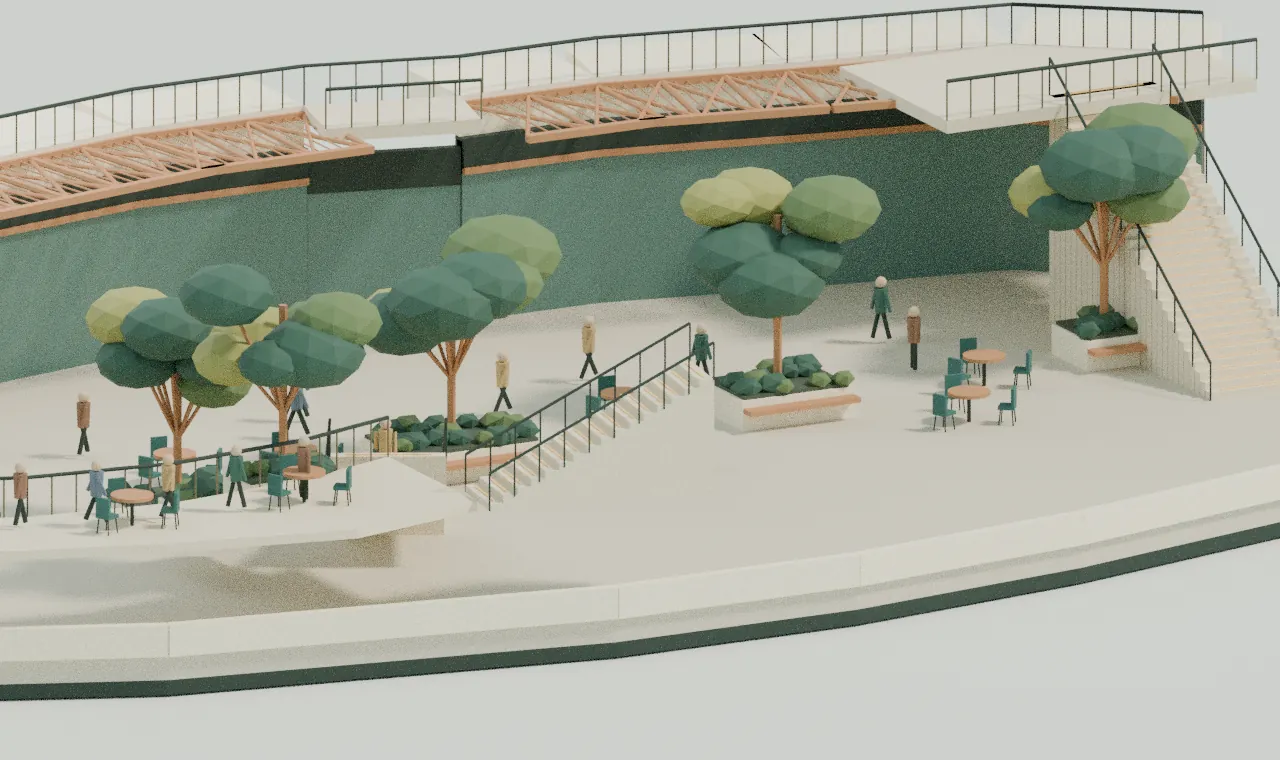
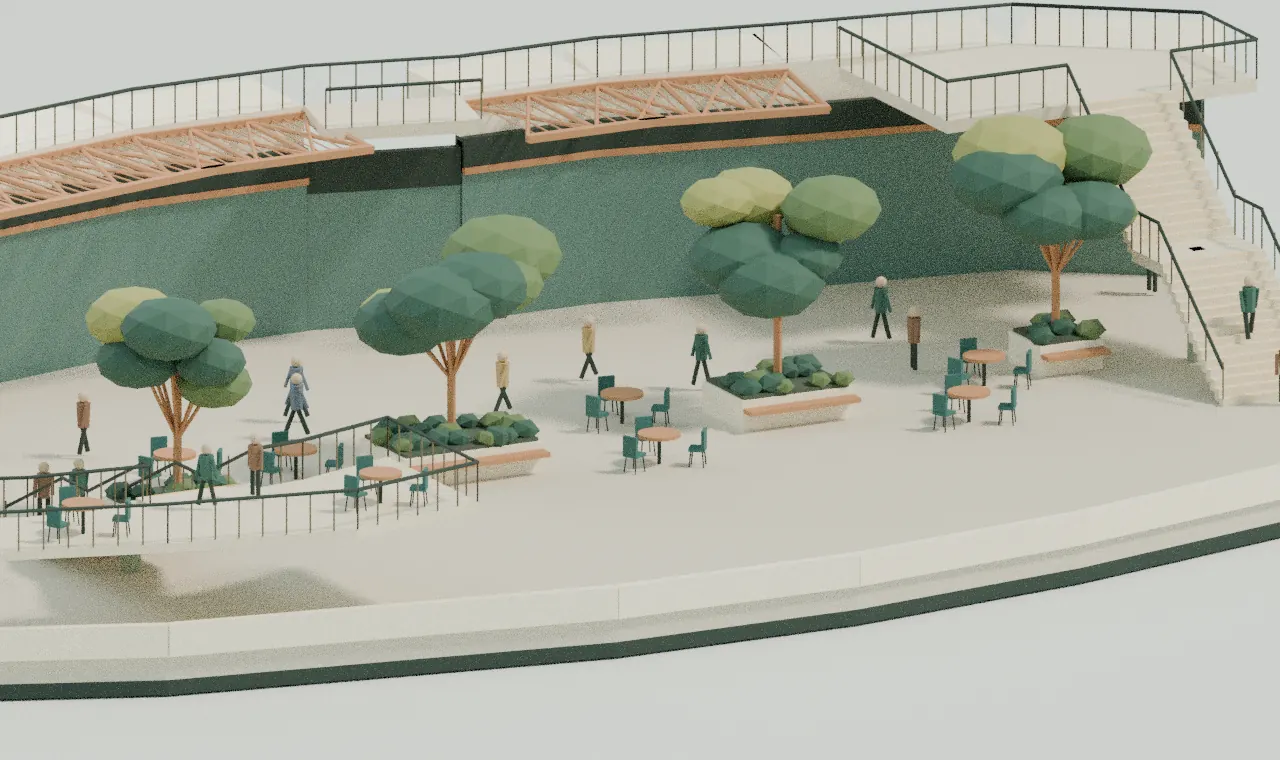
Fix stair connections and document reuse with an attributed quickstart

diff --git a/docs/walkthrough.js b/docs/walkthrough.js
@@ -1,3 +1,4 @@
+// Spatial Digital Showcase · @JayceFan666 · https://github.com/JayceFan666/spatial-digital-showcase
 const $=id=>document.getElementById(id);let contextMode=false,season='summer',flowing=true,walkers=[],flowTime=0,lastFrame=0,contextGroup,seasonGroup;let night=false,selected=-1;
 const nodes=[
 {name:'木色格栅顶棚',sub:'几何格构 · 光影层次',lead:'以木色几何格构延续庭院上方的空间界面。',text:'三角格栅与透光开口交织出丰富光影，为步行与停留提供舒适的空间。可关闭“顶棚”查看下层布局。',p:[-10,5.8,-5]},
@@ -23,8 +24,8 @@ nodes.push(
 {name:'周边铺位门面',sub:'庭院两侧 · 连续商业',lead:'沿庭院两侧展开的门面，将周边商业与广场相连。',text:'两侧门面围合庭院，形成连续的步行与消费界面。',p:[3,3,12]},
 {name:'连廊入口',sub:'一楼连廊 · 负一层小餐',lead:'上层连廊串联庭院，连廊入口连接负一层餐饮空间。',text:'上层步行连廊串联庭院，入口连接下层公共空间。',p:[0,5,-4]}
 );
-nodes[1].text='层层台阶与休息平台连接下层庭院和中层退台，沿途展开的花池提供绿荫与停留空间。';
-nodes.push({name:'退台打卡点',sub:'中层停留 · 俯瞰庭院',lead:'沿弧形退台漫步，在上下层之间停留，看见庭院的另一面。',text:'退台通过两端楼梯与上层连接，宽阔的平台可供观景、休憩和外摆，下方延续商业门面。',p:[20,4.6,4]});
+nodes[1].text='中庭楼梯连通庭院与中层退台，中途可在平坦的休息平台停留。西侧另有一座楼梯通向上层观景平台。';
+nodes.push({name:'退台打卡点',sub:'中层停留 · 俯瞰庭院',lead:'沿弧形退台漫步，在上下层之间停留，看见庭院的另一面。',text:'退台通过中庭楼梯与庭院连接，转入平整平台即可观景、休憩或外摆，下方延续商业门面。',p:[20,4.6,4]});
 nodes.forEach((n,i)=>{const b=document.createElement('button');b.className='node';b.dataset.node=i;b.innerHTML=`<span class="num">0${i+1}</span><span><strong>${["格栅顶棚","楼梯与平台","庭院绿化","商业界面","庭院外摆","上层平台","周边铺位","连廊入口","退台打卡点"][i]}</strong><small>${n.sub}</small></span>`;b.onclick=()=>choose(i);$('nodes').append(b);const pin=document.createElement('button');pin.className='hotspot';pin.dataset.node=i;pin.innerHTML=`<b>0${i+1}</b>${n.name}`;pin.onclick=()=>choose(i);$('pins').append(pin);n.el=pin;});
 $('sources').onclick = () => $('sourceDialog').showModal();
 let atmosphereTween=null,foliageTween=null;
@@ -44,7 +45,11 @@ const inner = [[-25, -7], [-21, -10], [-15, -11], [-10, -12],
   [-6, -12], [-2, -13], [3, -13], [8, -12], [13, -11], [18, -9],
   [23, -7], [27, -4], [29, 1]];
 const floor = [...outer, ...inner.slice(0, -1).reverse()];
-const terraceEdge = [[7, 9], [10, 10], [14, 10.5], [18, 10], [22, 8.5], [25, 6.5]];
+// The terrace edge steps forward just enough to form a square stair throat.
+const terraceLeft = [[7, 9], [10, 10], [11.35,10.169], [11.35,10]];
+const terraceMouth = [[11.35,10],[14.65,10]];
+const terraceRight = [[14.65,10], [14.65,10.419], [18,10], [22,8.5], [25,6.5]];
+const terraceEdge = [...terraceLeft, ...terraceRight];
 const terraceBack = [[7, 14], [11, 15], [16, 14], [21, 12.5], [24, 10], [26, 7]];
 const upperLevel = 6;
 const terraceLevel = 3;
@@ -56,7 +61,45 @@ function tree(x,z,y=0,r=1.6){const g=new T.Group();greenGroup.add(g);g.position.
 function planter(x,z,w,d,y=0,treeHere=false){box(x,y+.4,z,w,.8,d,M.cream);box(x,y+.83,z,w-.16,.12,d-.16,M.soil,greenGroup);for(let i=0;i<Math.ceil(w*d*2);i++){const xx=x+(rand()-.5)*(w-.25),zz=z+(rand()-.5)*(d-.25);const o=mesh(new T.IcosahedronGeometry(.3+rand()*.2,0),i%3?M.leaf:M.leaf2,[xx,y+1,zz],greenGroup);o.scale.y=.7}if(treeHere)tree(x,z,y+.8,1.6);box(x,y+.55,z+d/2+.23,w,.12,.45,M.wood)}
 function table(x,z){mesh(new T.CylinderGeometry(.56,.56,.09,20),M.wood,[x,.79,z]);rod([x,0,z],[x,.75,z],.05,M.dark);for(let j=0;j<3;j++){let a=j*Math.PI*2/3+.4,xx=x+Math.cos(a)*1,zz=z+Math.sin(a)*1;const g=new T.Group();g.position.set(xx,0,zz);g.rotation.y=-a;scene.add(g);box(0,.46,0,.42,.09,.44,M.chair,g);box(.17,.74,0,.08,.46,.44,M.chair,g);for(const k of [-1,1])for(const l of [-1,1])rod([k*.15,.43,l*.15],[k*.19,0,l*.19],.018,M.dark,g)}}
 function oldPerson(x,z,color='#d8c6ab'){const m=mat(color);mesh(new T.SphereGeometry(.14,10,8),M.cream,[x,1.6,z]);mesh(new T.CylinderGeometry(.16,.19,.65,8),m,[x,1.1,z]);for(const a of [-.1,.1])rod([x+a,.8,z],[x+a,.07,z+.03],.055,M.dark);}
-function steps(a,b,width,rise=upperLevel,count=36){const dx=b[0]-a[0],dz=b[1]-a[1],len=Math.hypot(dx,dz),angle=-Math.atan2(dz,dx);for(let i=0;i<count;i++){let f=(i+.5)/count,h=(i+1)/count*rise;const o=box(a[0]+dx*f,h/2,a[1]+dz*f,len/count+.015,h,width,M.stone);o.rotation.y=angle;const ll=box(a[0]+dx*f,h+.015,a[1]+dz*f,.06,.025,width*.75,M.light);ll.rotation.y=angle}const nx=-dz/len*width/2,nz=dx/len*width/2;for(let s of [-1,1]){rod([a[0]+nx*s,1,a[1]+nz*s],[b[0]+nx*s,rise+1,b[1]+nz*s],.04,M.dark);for(let j=0;j<=9;j++){let f=j/9;rod([a[0]+dx*f+nx*s,rise*f,a[1]+dz*f+nz*s],[a[0]+dx*f+nx*s,rise*f+1,a[1]+dz*f+nz*s],.024,M.dark)}}}
+// Build from walkable entrance (z0) to walkable arrival (z1) with a real flat mid-landing.
+function stairLink({x,z0,z1,start,finish,width,landingLength,treads}){
+  const dir=Math.sign(z1-z0),run=Math.abs(z1-z0),rise=finish-start;
+  const flightRun=(run-landingLength)/2, tread=flightRun/treads, riser=rise/(2*treads);
+  const walk=[],left=x-width/2,right=x+width/2;
+  const stair=new T.Group();stair.name='stair-link';scene.add(stair);
+  const deck=(begin,end,height,name)=>{
+    const obj=box(x,height-.16,z0+dir*(begin+end)/2,width,.32,end-begin,M.stone,stair);
+    obj.name=name;return obj;
+  };
+  walk.push([x,start,z0]);
+  for(let f=0;f<2;f++){
+    const begin=f===0?0:flightRun+landingLength, floorY=start+f*rise/2;
+    for(let i=0;i<treads;i++){
+      const edge=begin+i*tread,y=floorY+(i+1)*riser;
+      deck(edge,edge+tread,y,'tread');
+      box(x,y+.006,z0+dir*(edge+.043),width*.83,.011,.045,M.light,stair);
+      // The feet traverse the actual tread heights rather than lerping along a ramp.
+      walk.push([x,y,z0+dir*(edge+.015)],[x,y,z0+dir*(edge+tread-.015)]);
+    }
+    for(const xx of [left,right]){
+      const beamX=xx+(x-xx)*.20;
+      rod([beamX,floorY-.20,z0+dir*begin],[beamX,floorY+rise/2-.20,z0+dir*(begin+flightRun)],.11,M.edge,stair);
+      rod([xx,floorY+1.02,z0+dir*begin],[xx,floorY+rise/2+1.02,z0+dir*(begin+flightRun)],.048,M.dark,stair);
+      for(let i=0;i<=treads;i+=4){let d=begin+i*tread,y=floorY+Math.min(treads,i+1)*riser;rod([xx,y,z0+dir*d],[xx,y+1,z0+dir*d],.022,M.bronze,stair);}
+    }
+    if(f===0){
+      const middle=start+rise/2,end=flightRun+landingLength;
+      deck(flightRun,end,middle,'mid-landing');
+      walk.push([x,middle,z0+dir*flightRun],[x,middle,z0+dir*end]);
+      rail([[left,z0+dir*flightRun],[left,z0+dir*end]],middle,stair);
+      rail([[right,z0+dir*flightRun],[right,z0+dir*end]],middle,stair);
+      const landing=box(x,middle/2,z0+dir*(flightRun+landingLength/2),.37,middle,.37,M.edge,stair);
+      landing.name='landing-support';
+    }
+  }
+  walk.push([x,finish,z1]);
+  return walk;
+}
 function init(){scene=new T.Scene();scene.background=null;renderer=new T.WebGLRenderer({antialias:true,alpha:true,preserveDrawingBuffer:true});renderer.setPixelRatio(Math.min(devicePixelRatio,1.7));renderer.shadowMap.enabled=true;renderer.shadowMap.type=T.PCFSoftShadowMap;renderer.outputColorSpace=T.SRGBColorSpace;renderer.toneMapping=T.ACESFilmicToneMapping;renderer.toneMappingExposure=1.49;$('scene').append(renderer.domElement);renderer.domElement.tabIndex=0;renderer.domElement.setAttribute('aria-label','下沉广场立体模型。拖动旋转，滚轮缩放；也可使用预设视角按钮。');camera=new T.PerspectiveCamera(38,1,.1,350);controls=new OrbitControls(camera,renderer.domElement);controls.enableDamping=true;controls.dampingFactor=.08;controls.maxPolarAngle=Math.PI/2-.03;controls.minDistance=15;controls.maxDistance=220;controls.target.set(0,1,0);controls.addEventListener('start',()=>{targetTween=null;if(typeof endTour==='function'&&document.body.classList.contains('touring'))endTour(false)});
 ambient=new T.HemisphereLight('#fcfff8','#bfc6ab',2.95);scene.add(ambient);sun=new T.DirectionalLight('#fff6e2',3.5);sun.position.set(-18,45,20);sun.castShadow=true;sun.shadow.mapSize.set(2048,2048);Object.assign(sun.shadow.camera,{left:-48,right:48,top:38,bottom:-38,near:1,far:120});sun.shadow.normalBias=.05;scene.add(sun);fill=new T.DirectionalLight('#e8f3ff',1.25);fill.position.set(30,20,-20);scene.add(fill);
 roofGroup=new T.Group();greenGroup=new T.Group();scene.add(roofGroup,greenGroup);
@@ -67,44 +110,34 @@ for(let i=0;i<inner.length-1;i++){if(i===4)continue;const a=inner[i],b=inner[i+1
 const dx=b[0]-a[0],dz=b[1]-a[1],nx=dz/l*3,nz=-dx/l*3;const back=[[...a],[...b],[b[0]+nx,b[1]+nz],[a[0]+nx,a[1]+nz]];slab(back,4.9,1.1,M.cream);rail([a,b],upperLevel);for(let j=0;j<Math.floor(l/3);j++){let t=(j+.5)/Math.floor(l/3),x=a[0]+dx*t,z=a[1]+dz*t;const o=box(x+nx*.25,1.7,z+nz*.25,1.1,2,.12,M.light);o.rotation.y=-Math.atan2(dz,dx)}}
 // Low cutaway outer edge reveals the sunken commercial level.
 for(let i=0;i<outer.length-1;i++){wallBetween(outer[i],outer[i+1],.85,.3,M.cream);}
-// One stair links to the upper level, the other passes through the terrace.
-steps([-21, 4], [-21, -5], 3, upperLevel, 30);
-const s2 = [4, 3], s0 = [7, 9];
-const stairRoute = [];
-const interp = t => [s2[0] + (s0[0] - s2[0]) * t, s2[1] + (s0[1] - s2[1]) * t];
-for (let i = 0; i <= 2; i++) {
-  const [x, z] = interp(i / 2);
-  stairRoute.push([x, i * terraceLevel / 2, z]);
-  if (i === 2) break;
-  const group = new T.Group();
-  scene.add(group);
-  const previousScene = scene;
-  scene = group;
-  steps([x,z], interp((i + 1) / 2), 3, terraceLevel / 2, 9);
-  scene = previousScene;
-  group.position.y = i * terraceLevel / 2;
-}
+// West stair reaches the real upper viewing platform; the central stair serves only the terrace.
+const westStair=stairLink({x:-21,z0:4.7,z1:-4,start:0,finish:upperLevel,width:3,landingLength:1.5,treads:15});
+const terraceStair=stairLink({x:13,z0:2.35,z1:10,start:0,finish:terraceLevel,width:3.3,landingLength:1.45,treads:8});
+const stairRoute=[[13,0,1.3],...terraceStair,[13,terraceLevel,11.65]];
+const westRoute=[[-21,0,5.3],...westStair,[-21,upperLevel,-5.7]];
 buildTerrace();
-const upperPlatform = [[-25, -7], [-21, -10], [-16, -10], [-16, -4], [-25, -4]];
-slab(upperPlatform, upperLevel - .35, .35, M.stone);
-rail([upperPlatform[3], upperPlatform[4]], upperLevel);
+const upperPlatform=[[-25,-7],[-21,-10],[-16,-10],[-16,-4],[-25,-4]];
+slab(upperPlatform,upperLevel-.35,.35,M.stone);
+// Leave clear gaps exactly the width of the opposing stairs.
+rail([[-25,-7],[-25,-4],[-22.5,-4]],upperLevel);
+rail([[-19.5,-4],[-16,-4],[-16,-10]],upperLevel);
 
 // Top trellis bands follow commercial fronts; the courtyard centre stays open.
-for(let i=0;i<inner.length-1;i++){if(i===4||i>10)continue;const a=inner[i],b=inner[i+1],dx=b[0]-a[0],dz=b[1]-a[1],l=Math.hypot(dx,dz);if(l<1)continue;const nx=-dz/l*3.8,nz=dx/l*3.8;wallBetween(a,b,.2,.24,M.wood,5.65,roofGroup);wallBetween([a[0]+nx,a[1]+nz],[b[0]+nx,b[1]+nz],.2,.24,M.wood,5.65,roofGroup);const count=Math.ceil(l/2.3);for(let j=0;j<count;j++){const t=j/count,u=(j+1)/count,A=[a[0]+dx*t,5.75,a[1]+dz*t],B=[a[0]+dx*u,5.75,a[1]+dz*u],C=[A[0]+nx,5.75,A[2]+nz],D=[B[0]+nx,5.75,B[2]+nz];rod(A,C,.09,M.wood,roofGroup);rod(A,D,.06,M.wood,roofGroup);rod(B,C,.06,M.wood,roofGroup);for(let q=1;q<5;q++){let f=q/5;rod([A[0]+dx/count*f,5.75,A[2]+dz/count*f],[C[0]+dx/count*f,5.75,C[2]+dz/count*f],.025,M.wood,roofGroup)}}}
-planter(-9,0,3.2,2.3,0,true);planter(1,1,4,2.5,0,true);planter(10,3,3.2,2.3,0,true);planter(-19,-1,2,2,0,true);planter(11,7,2.5,1.5,1.1,false);planter(10,8.9,2.7,1.5,2.1,true);
+for(let i=0;i<inner.length-1;i++){if(i<2||i===4||i>10)continue;const a=inner[i],b=inner[i+1],dx=b[0]-a[0],dz=b[1]-a[1],l=Math.hypot(dx,dz);if(l<1)continue;const nx=-dz/l*3.8,nz=dx/l*3.8;wallBetween(a,b,.2,.24,M.wood,5.65,roofGroup);wallBetween([a[0]+nx,a[1]+nz],[b[0]+nx,b[1]+nz],.2,.24,M.wood,5.65,roofGroup);const count=Math.ceil(l/2.3);for(let j=0;j<count;j++){const t=j/count,u=(j+1)/count,A=[a[0]+dx*t,5.75,a[1]+dz*t],B=[a[0]+dx*u,5.75,a[1]+dz*u],C=[A[0]+nx,5.75,A[2]+nz],D=[B[0]+nx,5.75,B[2]+nz];rod(A,C,.09,M.wood,roofGroup);rod(A,D,.06,M.wood,roofGroup);rod(B,C,.06,M.wood,roofGroup);for(let q=1;q<5;q++){let f=q/5;rod([A[0]+dx/count*f,5.75,A[2]+dz/count*f],[C[0]+dx/count*f,5.75,C[2]+dz/count*f],.025,M.wood,roofGroup)}}}
+planter(-9,0,3.2,2.3,0,true);planter(1,1,4,2.5,0,true);planter(10,3,3.2,2.3,0,true);planter(-17.6,-1,1.8,1.8,0,true);
 for(const [x,z] of [[-15,0],[-13,3],[-5,-1],[-4,3],[5,0],[8,-1],[16,2]])table(x,z);
-buildWalkers(stairRoute);
+buildWalkers(stairRoute,westRoute);
 for(const [x,z] of [[-12,1],[1,1],[10,3]]){let l=new T.PointLight('#ffd397',0,11,2);l.position.set(x,2.4,z);scene.add(l);lamps.push(l)}
 label('庭院商街', [10, 4.5, -10], 6);
 nodes[0].p = [-12, 6, -9];
-nodes[1].p = [5.5, 2, 6];
+nodes[1].p = [13, 2.5, 6.9];
 nodes[2].p = [1, 2.5, 1];
 nodes[3].p = [10, 3, -10];
 nodes[4].p = [-13, 1, 3];
-nodes[5].p = [-21, 6.8, -5];
+nodes[5].p = [-21, 7, -5.7];
 buildContext();setSeason('summer');liveResizeObserver=new ResizeObserver(resize);liveResizeObserver.observe($('scene'));resize();view('overview',false);animate();}
 function resize(){if(!renderer)return;const r=$('scene').getBoundingClientRect();renderer.setSize(r.width,r.height);camera.aspect=r.width/r.height;camera.updateProjectionMatrix()}
-function view(key,smooth=true){if(!camera)return;const fit=Math.max(1,1.54/camera.aspect);const map={overview:{p:[(contextMode?38:30)*fit,(contextMode?50:38)*fit,(contextMode?68:51)*fit],t:[0,2.6,0]},front:{p:[3,14*fit,47*fit],t:[-2,2,0]},shops:{p:[21*fit,10*fit,28*fit],t:[8,2,-6]},terrace:{p:[32*fit,23*fit,-28*fit],t:[19,3.6,0]},top:{p:[0,90*fit,.3],t:[0,0,0]}};const v=map[key];document.querySelectorAll('[data-view]').forEach(b=>b.classList.toggle('active',b.dataset.view===key));if(smooth)targetTween={start:performance.now(),a:camera.position.clone(),b:new T.Vector3(...v.p),ta:controls.target.clone(),tb:new T.Vector3(...v.t)};else{camera.position.set(...v.p);controls.target.set(...v.t);controls.update()}}
+function view(key,smooth=true){if(!camera)return;const fit=Math.max(1,1.54/camera.aspect);const map={overview:{p:[(contextMode?38:30)*fit,(contextMode?50:38)*fit,(contextMode?68:51)*fit],t:[0,2.6,0]},front:{p:[3,14*fit,47*fit],t:[-2,2,0]},stairs:{p:[12+17*fit,2.1+14*fit,6+22*fit],t:[12,2.1,6]},shops:{p:[21*fit,10*fit,28*fit],t:[8,2,-6]},terrace:{p:[32*fit,23*fit,-28*fit],t:[19,3.6,0]},top:{p:[0,90*fit,.3],t:[0,0,0]}};const v=map[key];document.querySelectorAll('[data-view]').forEach(b=>b.classList.toggle('active',b.dataset.view===key));if(smooth)targetTween={start:performance.now(),a:camera.position.clone(),b:new T.Vector3(...v.p),ta:controls.target.clone(),tb:new T.Vector3(...v.t)};else{camera.position.set(...v.p);controls.target.set(...v.t);controls.update()}}
 let frameRequest=null;
 function animate(now=0){if(!isLive)return;frameRequest=requestAnimationFrame(animate);const dt=Math.min(.05,Math.max(0,(now-lastFrame)/1000));lastFrame=now;if(flowing)flowTime+=dt;updateWalkers();if(targetTween){let t=Math.min((performance.now()-targetTween.start)/(targetTween.duration||1400),1);t=t*t*(3-2*t);camera.position.lerpVectors(targetTween.a,targetTween.b,t);controls.target.lerpVectors(targetTween.ta,targetTween.tb,t);if(t>=1)targetTween=null}updateAtmosphere();controls.update();renderer.render(scene,camera);const r=$('scene').getBoundingClientRect();nodes.forEach(n=>{const v=new T.Vector3(...n.p).project(camera);n.el.style.left=(v.x*.5+.5)*r.width+'px';n.el.style.top=(-v.y*.5+.5)*r.height+'px';n.el.style.display=$('hotspots').checked&&v.z<1&&Math.abs(v.x)<.95&&Math.abs(v.y)<.9?'block':'none'})}
 function lighting(value){night=value;document.body.classList.toggle('night',night);$('day').classList.toggle('active',!night);$('night').classList.toggle('active',night);if(ambient){ambient.intensity=night?.86:2.95;sun.intensity=night?.33:3.5;fill.intensity=night?.55:1.25;M.glass.color.set(night?'#b9a985':'#c1d1c0');M.glass.emissive.set(night?'#8a6f36':'#000000');M.glass.emissiveIntensity=night?.35:0;M.light.emissiveIntensity=night?2:.15;lamps.forEach(l=>l.intensity=night?25:0);renderer.toneMappingExposure=night?1.26:1.49;sun.color.set(season==='autumn'?'#ffe0ad':season==='winter'?'#e3eeff':'#fff6e2')}}
@@ -136,8 +169,10 @@ slab([a,b,[b[0]+nx,b[1]+nz],[a[0]+nx,a[1]+nz]],-.3,.3,M.stone,contextGroup);
 storefront(a,b,name,contextGroup);wallBetween([a[0]+nx,a[1]+nz],[b[0]+nx,b[1]+nz],3.7,.18,M.cream,0,contextGroup);
 });
 const te=terraceEdge;
-for(let i=0;i<te.length-1;i++){const a=te[i],b=te[i+1];wallBetween(a,b,2.9,.16,M.glass,0,contextGroup);wallBetween(a,b,.4,.22,M.dark,2.9,contextGroup);box(a[0],1.45,a[1],.055,2.9,.055,M.bronze,contextGroup);}
-sign('退台下方',te[4],te[2],3.08,contextGroup);
+for(const span of [terraceLeft,terraceRight])for(let i=0;i<span.length-1;i++){
+ const a=span[i],b=span[i+1];wallBetween(a,b,2.9,.16,M.glass,0,contextGroup);wallBetween(a,b,.36,.22,M.dark,2.65,contextGroup);
+}
+sign('退台下方',[18,10],[22,8.5],2.9,contextGroup);
 storefront(inner[0],inner[1],'西侧入口');
 const a=inner[4],b=inner[5];storefront(a,b,'连廊入口');
 const dx=b[0]-a[0],dz=b[1]-a[1],l=Math.hypot(dx,dz),n=[-dz/l*2.4,dx/l*2.4];
@@ -145,7 +180,7 @@ slab([a,b,[b[0]+n[0],b[1]+n[1]],[a[0]+n[0],a[1]+n[1]]],upperLevel - .35,.35,M.st
 nodes[7].p=[(a[0]+b[0])/2,5,(a[1]+b[1])/2];
 sign('咖啡',inner[2],inner[4],4.5);
 sign('餐饮',inner[8],inner[10],4.5,scene);
-sign('茶饮',te[3],te.at(-1),3.08,contextGroup);
+sign('茶饮',[22,8.5],te.at(-1),2.9,contextGroup);
 nodes[6].p=[(outer[9][0]+outer[11][0])/2,3,(outer[9][1]+outer[11][1])/2];
 for(let i=0;i<36;i++){const o=mesh(new T.IcosahedronGeometry(.14,0),mat('#efbdd0'),[-9+(rand()-.5)*2,1.12,(rand()-.5)*1.8],seasonGroup);o.userData.flower=true;}
 }
@@ -156,41 +191,31 @@ mesh(new T.SphereGeometry(.15,10,8),skin,[0,1.62,0],group);mesh(new T.CylinderGe
 const limbs=[];for(let i=0;i<4;i++){const pivot=new T.Group();pivot.position.set(i<2?(i? .12:-.12):(i===2?-.25:.25),i<2?.83:1.4,0);group.add(pivot);rod([0,0,0],[0,i<2?-.72:-.55,0],i<2?.065:.05,i<2?M.dark:cloth,pivot);limbs.push(pivot)}
 return {group,limbs};
 }
-function buildWalkers(stairRoute){
+function buildWalkers(stairRoute,westRoute){
 const routes=[
 [[-23,0,-6],[-18,0,-5],[-12,0,-5],[-3,0,-5],[6,0,-5],[13,0,-6],[21,0,-9]],
 [[-14,0,-2],[-10,0,-3],[-6,0,-3],[0,0,-3],[7,0,-4],[16,0,-6]],
-stairRoute,terraceWalkRoute];
-routes.forEach((route,r)=>{for(let i=0;i<(r===2?3:5);i++){const w=person(['#8b6650','#396359','#c2a36f','#66778a'][i%4]);w.route=route.map(p=>new T.Vector3(...p));w.lengths=[0];for(let j=1;j<route.length;j++)w.lengths.push(w.lengths[j-1]+w.route[j].distanceTo(w.route[j-1]));w.total=w.lengths.at(-1);w.offset=i*.19;w.speed=r===2?.55:.75;walkers.push(w)}});
+stairRoute,westRoute,terraceWalkRoute];
+routes.forEach((route,r)=>{for(let i=0;i<(r>=2?2:5);i++){const w=person(['#8b6650','#396359','#c2a36f','#66778a'][i%4]);w.route=route.map(p=>new T.Vector3(...p));w.lengths=[0];for(let j=1;j<route.length;j++)w.lengths.push(w.lengths[j-1]+w.route[j].distanceTo(w.route[j-1]));w.total=w.lengths.at(-1);w.offset=i*.19;w.speed=r===2||r===3?.52:.75;walkers.push(w)}});
 }
 function updateWalkers(){for(const w of walkers){const cycle=(flowTime*w.speed/w.total+w.offset)%2,back=cycle>1,u=back?2-cycle:cycle,d=u*w.total;let j=1;while(j<w.lengths.length-1&&w.lengths[j]<d)j++;const t=(d-w.lengths[j-1])/(w.lengths[j]-w.lengths[j-1]);w.group.position.lerpVectors(w.route[j-1],w.route[j],t);const delta=w.route[j].clone().sub(w.route[j-1]);w.group.rotation.y=Math.atan2(delta.x,delta.z)+(back?Math.PI:0);const swing=Math.sin(flowTime*7+w.offset*20)*.42;w.limbs.forEach((limb,i)=>limb.rotation.x=swing*(i%2?1:-1));}}
 
 function buildTerrace() {
-  const deck = [...terraceEdge, ...terraceBack.slice().reverse()];
-  slab(deck, terraceLevel - .25, .25, M.stone);
-  rail(terraceEdge, terraceLevel);
-  const [a, b] = [terraceBack[0], terraceBack.at(-1)];
-  for (const [start, end] of [[a, [1, 15]], [b, [28, 3]]]) {
-    const group = new T.Group();
-    scene.add(group);
-    const previousScene = scene;
-    scene = group;
-    steps(start, end, 2, upperLevel - terraceLevel, 16);
-    scene = previousScene;
-    group.position.y = terraceLevel;
-  }
-  const centers = [[11, 12], [16, 12], [21, 10]];
-  for (const [x,z] of centers) {
-    const group = new T.Group();
-    scene.add(group);
-    const previousScene = scene;
-    scene = group;
-    table(x,z);
-    scene = previousScene;
-    group.position.y = terraceLevel;
-  }
-  terraceWalkRoute = centers.map(([x,z]) => [x, terraceLevel, z]);
-  nodes[8].p = [16, terraceLevel + 1, 12];
+  const deck=[...terraceEdge,...terraceBack.slice().reverse()];
+  slab(deck,terraceLevel-.25,.25,M.stone);
+  rail(terraceLeft,terraceLevel);
+  rail(terraceRight,terraceLevel);
+  rail([terraceEdge[0],...terraceBack,terraceEdge.at(-1)],terraceLevel);
+  // Keep the mouth and the length of the platform clear; tables sit off the travel line.
+  const tables=[[9.3,13],[17.5,12.15],[21.2,10.7]];
+  const furniture=new T.Group();scene.add(furniture);
+  const parent=scene;
+  scene=furniture;
+  for(const [x,z] of tables)table(x,z);
+  scene=parent;
+  furniture.position.y=terraceLevel;
+  terraceWalkRoute=[[12,terraceLevel,11.2],[14.4,terraceLevel,11.65],[17.4,terraceLevel,10.55],[20,terraceLevel,9.65]];
+  nodes[8].p=[16,terraceLevel+1,11];
 }
 
 // Presentation controls share the existing model and do not alter source geometry.
@@ -198,7 +223,7 @@ let tourStep=0,tourTimer=null,tourPaused=false,tourWasNight=false;
 const reduceMotion=matchMedia('(prefers-reduced-motion: reduce)').matches;
 const chapters=[
 {title:'向下，<br>走进花园。',copy:'从城市界面，走进一座可以停留的庭院。',eyebrow:'01 / THE GARDEN',view:'overview'},
-{title:'沿阶而下，<br>走近花园。',copy:'楼梯、绿荫与平台，把上下层连接成一段旅程。',eyebrow:'02 / THE JOURNEY',view:'front'},
+{title:'沿阶而下，<br>走近花园。',copy:'拾级而上，在中段平台稍作停留，再走向开敞的退台。',eyebrow:'02 / THE JOURNEY',view:'stairs'},
 {title:'停在半途，<br>看见更多。',copy:'退台连接庭院与城市。停留、交谈，也留下一个镜头。',eyebrow:'03 / THE TERRACE',view:'terrace'},
 {title:'生活，<br>向外延伸。',copy:'商业与外摆沿庭院展开，让相遇发生在日常之间。',eyebrow:'04 / THE EVERYDAY',view:'shops'},
 {title:'灯亮之后，<br>花园未眠。',copy:'让暖光接续日光，留住夜晚的片刻。',eyebrow:'05 / AFTER HOURS',view:'overview'}
@@ -228,7 +253,7 @@ function updateAtmosphere(){
 // Preview images are offline renders of this public model. A GPU is optional.
 const previews=[
  ['overview','庭院全景','从上层看清下沉庭院的整体轮廓与周边关系。','下沉庭院公开模型的日景鸟瞰，显示楼梯、种植和下沉商业界面'],
- ['stairs','沿阶而下','楼梯和层层花池将人从上层引入庭院。','从斜上方看连接庭院与退台的楼梯和花池'],
+ ['stairs','沿阶而下','两段台阶由休息平台连接，走到顶便进入退台。','从斜上方看连接庭院与退台的楼梯和花池'],
  ['terrace','在退台停留','弧形平台提供停留与俯瞰的位置。','俯看庭院一侧的弧形退台、栏杆和步行连接'],
  ['life','庭院外摆','桌椅围绕花池和绿荫展开，连接商业与庭院。','下沉庭院里的桌椅、花池、乔木和格栅顶棚'],
  ['night','灯亮之后','暖光沿商业界面亮起，庭院转入夜景。','下沉庭院公开模型的夜景鸟瞰，暖灯照亮商业界面']
@@ -238,7 +263,7 @@ let previewIndex=0,previewTimer=null;
 function selectPreview(i){
  previewIndex=i;
  const [file,title,caption,alt]=previews[i];
- $('previewImage').src='previews/'+file+'.webp?v=live-clean-2';$('previewImage').alt=alt;
+ $('previewImage').src='previews/'+file+'.webp?v=stair-flow-3';$('previewImage').alt=alt;
  const image=$('previewImage');image.classList.remove('preview-change');void image.offsetWidth;image.classList.add('preview-change');
  $('previewTitle').textContent=title;$('previewCaption').textContent=caption;
  $('previewTag').textContent='0'+(i+1)+' / 05';
@@ -256,7 +281,7 @@ $('playPreview').addEventListener('click',()=>{
  $('playPreview').textContent='Ⅱ 暂停预览';$('playPreview').setAttribute('aria-pressed','true');
  $('previewDescription').setAttribute('aria-live','off');selectPreview(0);
  // Prefetch only after opting into the sequence.
- previews.slice(1).forEach(([file])=>{const asset=new Image();asset.src='previews/'+file+'.webp?v=live-clean-2';});
+ previews.slice(1).forEach(([file])=>{const asset=new Image();asset.src='previews/'+file+'.webp?v=stair-flow-3';});
  previewTimer=setInterval(()=>{if(previewIndex===previews.length-1){stopPreview();return;}selectPreview(previewIndex+1);},2200);
 });
 document.addEventListener('visibilitychange',()=>{if(document.hidden)stopPreview()});

diff --git a/docs/index.html b/docs/index.html
@@ -1,4 +1,6 @@
-<!doctype html><html lang="zh-CN"><head><meta charset="utf-8"><meta name="viewport" content="width=device-width,initial-scale=1"><title>空间数字展示与三维漫游 · Spatial Digital Showcase</title><link rel="stylesheet" href="style.css?v=live-clean-2">
+<!doctype html>
+<!-- Spatial Digital Showcase · @JayceFan666 · https://github.com/JayceFan666/spatial-digital-showcase -->
+<html lang="zh-CN"><head><meta charset="utf-8"><meta name="viewport" content="width=device-width,initial-scale=1"><title>空间数字展示与三维漫游 · Spatial Digital Showcase</title><link rel="stylesheet" href="style.css?v=stair-flow-3">
 <meta name="description" content="空间数字展示与三维漫游。浏览下沉庭院的五幕导览、交互点位与昼夜氛围。"></head><body>
 <main id="showcase" class="showcase">
   <div class="show-nav">
@@ -17,7 +19,7 @@
     </div>
     <figure class="show-figure">
       <div class="show-imagewrap">
-        <img id="previewImage" src="previews/overview.webp?v=live-clean-2" width="1280" height="760" alt="下沉庭院公开模型的日景鸟瞰，显示楼梯、种植和下沉商业界面" fetchpriority="high">
+        <img id="previewImage" src="previews/overview.webp?v=stair-flow-3" width="1280" height="760" alt="下沉庭院公开模型的日景鸟瞰，显示楼梯、种植和下沉商业界面" fetchpriority="high">
         <span class="show-imagebadge">公 开 模 型 · 导 览 预 览</span>
       </div>
       <figcaption id="previewDescription" aria-live="polite"><span id="previewTag">01 / 05</span><div><strong id="previewTitle">庭院全景</strong><span id="previewCaption">从上层看清下沉庭院的整体轮廓与周边关系。</span></div></figcaption>
@@ -48,5 +50,5 @@
 
 </div>
 <script src="vendor.js" defer></script>
-<script src="walkthrough.js?v=live-clean-2" defer></script>
+<script src="walkthrough.js?v=stair-flow-3" defer></script>
 </body></html>

diff --git a/scripts/prepublish.py b/scripts/prepublish.py
@@ -18,13 +18,14 @@ CHECKS = {
 RULES = {name: re.compile(pattern, re.I) for name, pattern in CHECKS.items()}
 PRIVATE_COMPONENTS = {"private", "internal", "source-drawings", "construction", "archives"}
 
-# Only the visually reviewed public demo renders may bypass text scanning.
+# Only the visually reviewed public renders and approved original viewport may bypass text scanning.
 PUBLIC_PREVIEW_HASHES = {
[11 lines of base64/hex data omitted]
 }
 
 CAD_HEADER = re.compile(rb"^(?:AC10\d\d|\s*0\s*SECTION\s*2\s*HEADER)")

diff --git a/README.md b/README.md
@@ -2,7 +2,14 @@
 
 **Spatial Digital Showcase · 数字空间漫游**
 
+本 Skill 出自 [Spatial Digital Showcase · @JayceFan666](https://github.com/JayceFan666/spatial-digital-showcase)。如基于本 Skill 改编或转载，建议保留这条来源说明，便于使用者找到原版。
+
 [打开在线 Demo ↗](https://jaycefan666.github.io/spatial-digital-showcase/) · [下载工具包 ZIP ↓](https://github.com/JayceFan666/spatial-digital-showcase/archive/refs/heads/main.zip) · [使用方法](#在新项目中复用)
+
+[![原项目网页实截：庭院三维场景、导览标题、点位和页面控件](docs/previews/project-viewport.webp)](https://jaycefan666.github.io/spatial-digital-showcase/)
+
+原项目网页实截（品牌标识已移除），经许可展示，不属于代码 MIT 许可范围。在线 Demo 使用公开合成模型，与截图不是同一版本。  
+Screenshot of the original interactive site with branding removed, shown with permission and excluded from the code’s MIT license. The public demo uses a separate synthetic model.
 
 用浏览器带看商业空间、建筑、广场与展厅。即使空间还在筹开或改造，也可以先讲清入口、动线与使用场景，再让观众自由探索。
 
@@ -21,6 +28,17 @@ python3 -m http.server 8000 --directory docs
 ```
 
 访问 `http://localhost:8000`。实时模型与五张预览均由仓库提供，无需账户、API 密钥或外部资源。
+
+## 快速开始：复制这段提示词
+
+能读取仓库的 Codex 或其他工作代理，可以先让它阅读 [SKILL.md](skills/spatial-walkthrough/SKILL.md)。如果工具只能接收聊天文本，直接复制下面的提示词，再按需要附上允许提供的参考材料。
+
+```text
+请为【空间名称】制作一个在浏览器里可运行的三维带看 Demo，观众是【谁】，希望他们看懂【什么】。我会提供可用图纸、点位图、关键尺寸和特殊场景要求。如果能读取 skills/spatial-walkthrough/SKILL.md，请先按它工作；读不到就按下面做：
+1. 先梳理入口、楼层、楼梯与平台、主要动线及 3–5 个展示点位；区分资料所示和设计示意，缺失尺寸不要当作实测值。
+2. 做一个可旋转、缩放、点击点位的网页，安排从全貌到细节的导览。首屏直接展示空间，手机可操作，不支持 WebGL 时提供图文预览。
+3. 交付可本地运行的网页、依赖及运行说明。原始 CAD、内部图纸和未经许可的媒体留在本地，不上传到公共网页或仓库。
+```
 
 ## 在新项目中复用
 
